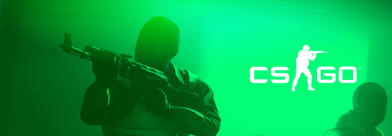
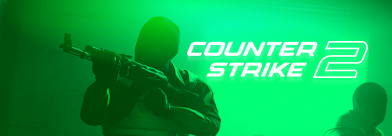
Update font styles and add a section in MatchModal.vue

Changed region(s): [[0.4592, 0.2941, 0.949, 0.6765]]

diff --git a/components/modals/MatchModal.vue b/components/modals/MatchModal.vue
@@ -26,7 +26,7 @@
       <v-card-text>
         <ModalsTeams :opponents-info="props.matchInfo.opponents" />
         <v-row class="rosters mt-5">
-          <v-progress-circular v-if="!props.matchInfo.rosters" :size="50" color="primary" class="mx-auto"
+          <v-progress-circular v-if="!props.matchInfo.rosters" :size="50" color="primary" class="justify-center mx-auto"
             indeterminate></v-progress-circular>
           <v-col>
             <ModalsRosters :team-roster="props.matchInfo.rosters[0].players" v-if="props.matchInfo.rosters" />
@@ -35,14 +35,22 @@
             <ModalsRosters :team-roster="props.matchInfo.rosters[1].players" v-if="props.matchInfo.rosters" />
           </v-col>
         </v-row>
+        <v-row>
+          <v-col v-if="props.matchInfo.supabaseDataForMatch">
+            <span>Odds</span>
+            {{ props.matchInfo.supabaseDataForMatch.link }}
+            {{ props.matchInfo.supabaseDataForMatch.odds0 }}
+            {{ props.matchInfo.supabaseDataForMatch.odds1 }}
+
+          </v-col>
+        </v-row>
       </v-card-text>
     </v-card>
   </v-row>
   <!-- MOBILE -->
-  <v-card>
-    <v-row>
-      <v-spacer></v-spacer>
-      <v-col><v-icon @click="$emit('closeModal')" class="ma-2">mdi-close</v-icon></v-col>
+  <v-card v-if="mobile">
+    <v-row class="close-header">
+      <v-col class="d-flex justify-end"><v-icon @click="$emit('closeModal')" class="ma-2">mdi-close</v-icon></v-col>
     </v-row>
     <v-card-subtitle class="text-xl font-bold text-center">
       <!-- NOME DA LIGA -->
@@ -71,6 +79,7 @@
         <v-col class="w-50">
           <ModalsRosters :team-roster="props.matchInfo.rosters[1].players" v-if="props.matchInfo.rosters" />
         </v-col>
+        <div class="line-bottom"></div>
       </v-row>
     </v-card-text>
   </v-card>
@@ -132,5 +141,13 @@ function formatDate(inputDate) {
 .rosters {
   border-bottom: 1px solid #E6E6E6;
   min-height: 30dvh;
+
+  @media screen and (min-width: 960px) {
+    margin: 0 50px;
+  }
+}
+
+.close-header {
+  max-height: 7vh;
 }
 </style>

diff --git a/components/modals/Teams.vue b/components/modals/Teams.vue
@@ -1,17 +1,17 @@
 <template>
-  <v-row>
+  <v-row class="d-flex justify-space-between">
     <v-col v-for="(opponent, index) in props.opponentsInfo" :key="index">
-      <v-row v-if="index === 0" class="d-flex  justify-center align-center mx-auto ml-5">
+      <v-row v-if="index === 0" class="d-flex align-center ml-5">
         <!-- LOGO/SIGLA/SCORE TIME 0 -->
         <!-- BANDEIRA DA ORG -->
-        <v-col  class="d-flex justify-center">
+        <v-col  class="d-flex justify-center ">
           <v-img class="elevation-1" max-width="6vw" :src="teamLogoThumb(false, opponent.opponent.location)" />
         </v-col>
         <!-- LOGO -->
         <v-col  class="pa-0 d-flex justify-end">
           <v-img max-width="6vw" :src="teamLogoThumb(opponent.opponent.image_url, false)" />
         </v-col>
-        <v-col>
+        <v-col >
           <!-- SIGLA -->
           <span class="text-left acronym">
             {{ opponent.opponent.name }}

diff --git a/components/cards/Big.vue b/components/cards/Big.vue
@@ -268,10 +268,9 @@ const width = computed(() => {
 
     .special-match-countdown {
       width: 70px;
-      // Poppins nao é monospaced, entao o contador fica mudando de tamanho, tentar resolve de outra forma
-      font-family: "Roboto";
-      font-style: normal;
-      font-weight: 700;
+      font-family: "Fira Code";
+      font-style: bold;
+      font-weight: 900;
       font-size: 17px;
       color: #666666;
     }
